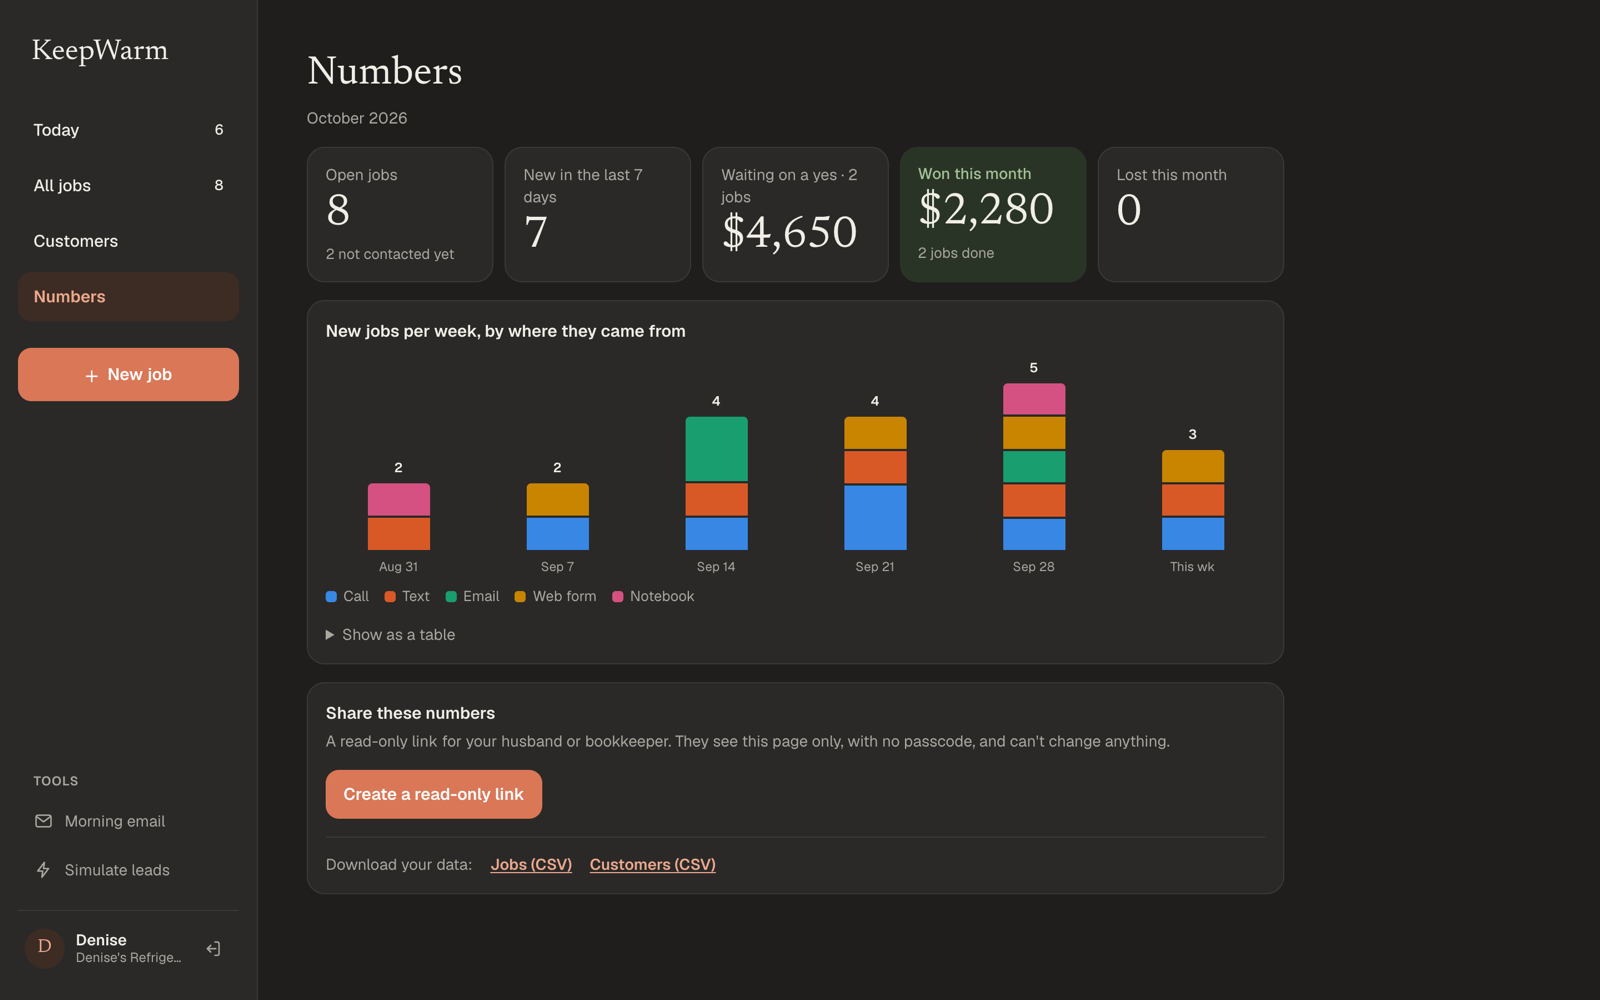
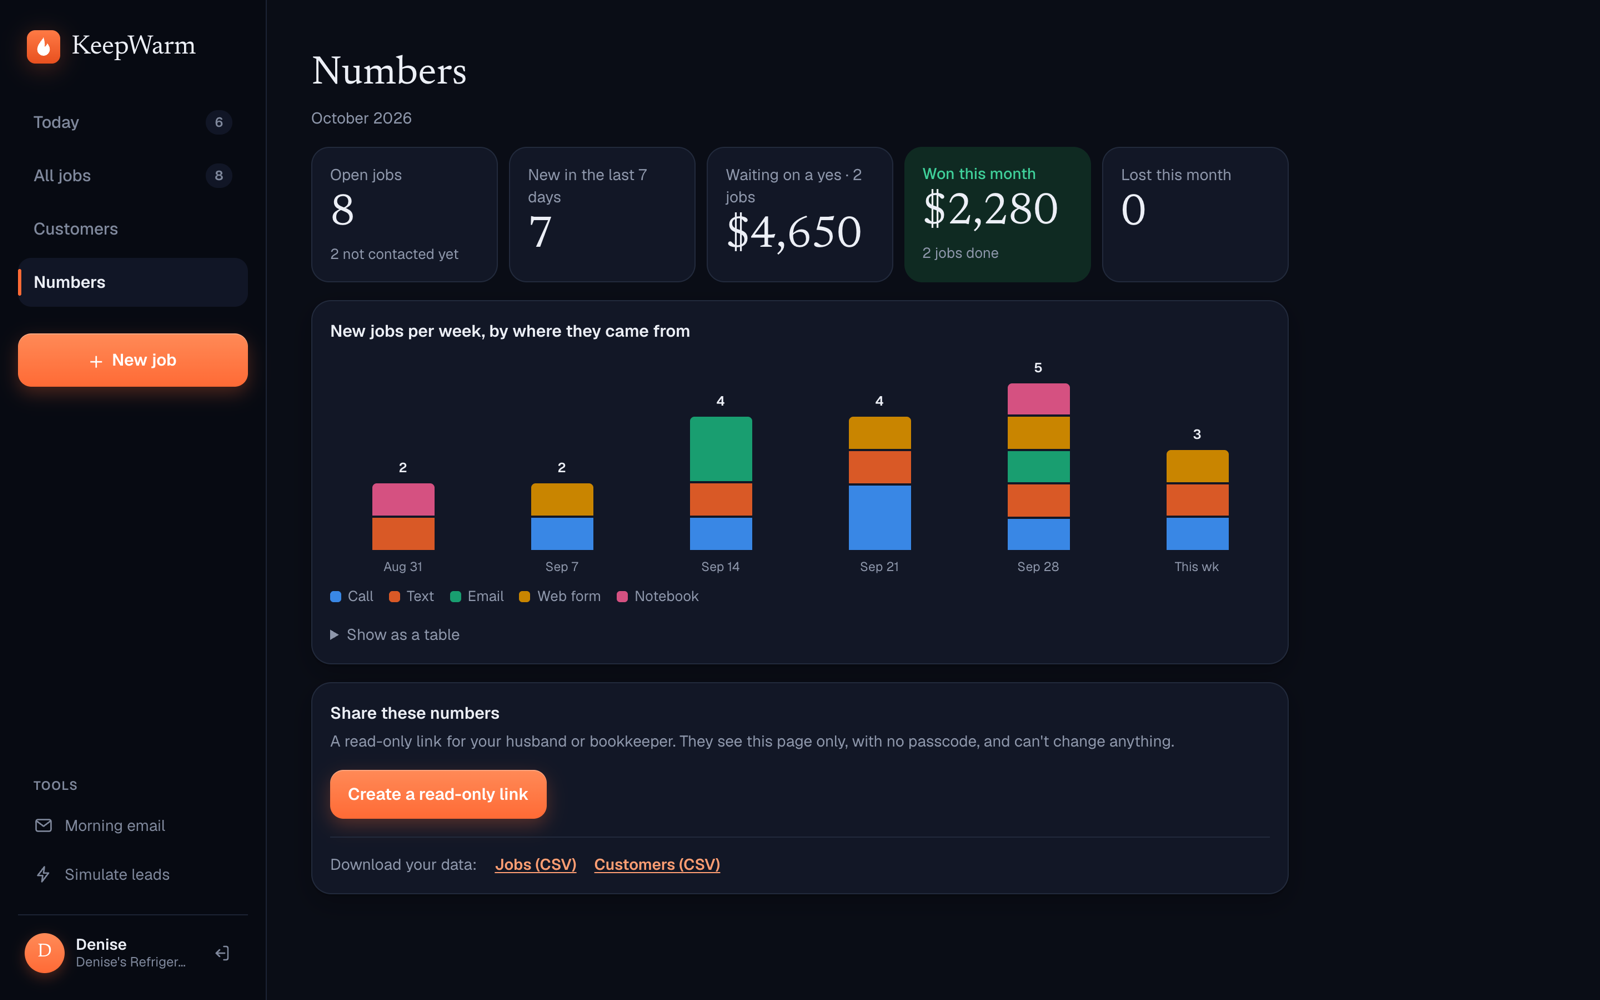
Refresh README screenshots for the new design

diff --git a/README.md b/README.md
@@ -8,7 +8,7 @@ Job requests arrive by phone, text, email, website form and a paper notebook. Ke
 
 ![Today screen](docs/screenshots/today.png)
 
-| All jobs | Numbers (dark mode) | On a phone |
+| All jobs (dark mode) | Numbers (dark mode) | On a phone |
 |---|---|---|
 | ![All jobs board](docs/screenshots/jobs.png) | ![Numbers](docs/screenshots/numbers.png) | ![Today on a phone](docs/screenshots/today-mobile.png) |
 
